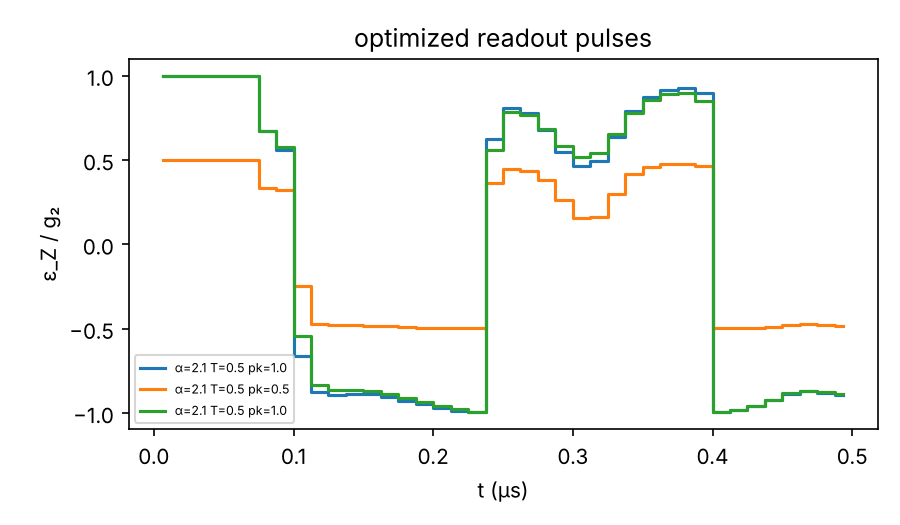
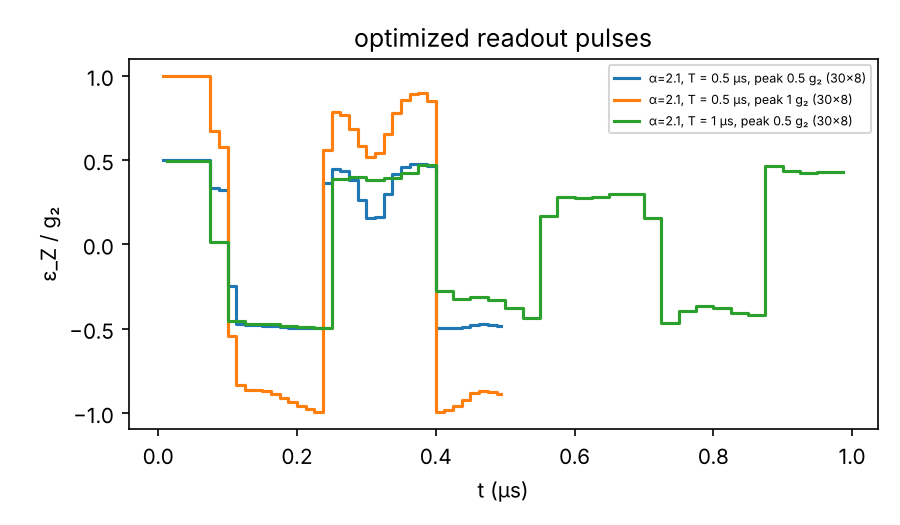
Fold in batch 3s: optimizer across 9 converged settings (1.26-1.71x signal per flip), logs to results/logs/, cleaner optimized-pulse figure
Claude-Session: https://claude.ai/code/session_017wfmfWoBFh3pbnZBP8Jes5

diff --git a/research/s2/summarize.py b/research/s2/summarize.py
@@ -255,9 +255,9 @@ def optimizer(md):
         md.append(f"| {d['alpha']} | {d['na']}×{d['nb']} | {d['T']} | {d['peak']} | {d['init']} | {d['mu_scale']} | {b['snr']/q['snr']:.2f} | {b['p_flip']/q['p_flip']:.2f} | {b['ratio_vs_square']:.2f} |")
     fig, ax = plt.subplots(figsize=(6, 3.5))
     for d in os_:
-        if d["alpha"] == 2.1 or len(os_) < 4:
+        if (d["alpha"] == 2.1 and d["nb"] >= 8) or len(os_) < 4:   # converged runs only
             t = np.linspace(0, d["T"], d["bins"], endpoint=False) + d["T"] / d["bins"] / 2
-            ax.step(t, d["best"]["pulse_over_g2"], where="mid", label=f"α={d['alpha']} T={d['T']} pk={d['peak']}")
+            ax.step(t, d["best"]["pulse_over_g2"], where="mid", label=f"α={d['alpha']}, T = {d['T']:g} µs, peak {d['peak']:g} g₂ ({d['na']}×{d['nb']})")
     ax.set_xlabel("t (µs)"); ax.set_ylabel("ε_Z / g₂"); ax.legend(fontsize=6); ax.set_title("optimized readout pulses")
     fig.tight_layout(); fig.savefig(F / "optimized_pulses.png", dpi=150); plt.close(fig)
     md.append("")

diff --git a/README.md b/README.md
@@ -30,7 +30,7 @@ Our one idea: every decay rate is an **eigenvalue** of the Lindblad equation, so
 | **2.1** Bit-flip rate Γ_X | The prompt's method (fit the decay of Re⟨a⟩) at α ≤ 1.4, and the slowest eigenvalue of the "odd" half of the Lindblad matrix up to α = 2.5 | The two methods agree to 2e-8. Γ_X falls from 2.3e-3 to 3.1e-8 per µs (α = 1.0 to 2.4; 2.6 s between flips at α = 2.1). Fitted **γ = 2.30**, but it is not one number: it drifts from 3.1 to 1.9, reaching the deck's γ ≲ 2 only at large α, because **two flip mechanisms** take turns. The naive Golden Rule estimate gives γ = 4 and describes only the first; a κ_a sweep proves the hand-over (slope 1.06 → 2.05). |
 | **2.2** Phase-flip rate Γ_Z | Parity decay from the even cat (the prompt's method) and the slowest nonzero eigenvalue of the "even" half | Slope 0.991 × 2κ_a; at α = 2.1, Γ_Z = 0.5146 per µs. The two methods agree to 5 digits. |
 | **2.3** Readout through the buffer | Drive the memory, watch the buffer field | The signal matches our linear formula to 1% and **rings at 3.2 MHz** (the same oscillator as the Task 1.1 overshoot); it settles in 1 µs. |
-| **2.4** Better readout | Expanded the circuit Hamiltonian term by term and simulated it without the rotating-wave shortcut; measured flip cost vs signal; compared pulse shapes; optimized the pulse with gradients through the simulator | (a) The pump amplitude must be 0.037, not 0.035, and the pump must be **retuned by −23 MHz**: at the nominal frequency, Stark shifts stop the photon-pair conversion in our circuit simulation. (b) Signal and extra bit flips both grow as ε_Z², so turning up the drive buys nothing per unit of information; only the pulse's *shape* helps. (c, d) A drive at the 3.2 MHz ring frequency cuts the readout error 1.7× (1.12% → 0.65% in 2 µs); a gradient-optimized pulse gives **40% more signal with 10% fewer bit flips** than a square pulse. |
+| **2.4** Better readout | Expanded the circuit Hamiltonian term by term and simulated it without the rotating-wave shortcut; measured flip cost vs signal; compared pulse shapes; optimized the pulse with gradients through the simulator | (a) The pump amplitude must be 0.037, not 0.035, and the pump must be **retuned by −23 MHz**: at the nominal frequency, Stark shifts stop the photon-pair conversion in our circuit simulation. (b) Signal and extra bit flips both grow as ε_Z², so turning up the drive buys nothing per unit of information; only the pulse's *shape* helps. (c, d) A drive at the 3.2 MHz ring frequency cuts the readout error 1.7× (1.12% → 0.65% in 2 µs); a gradient-optimized pulse gives **40% more signal with 10% fewer bit flips** than a square pulse at α = 2.1, and 1.3–1.7× more signal per bit flip in all 9 converged cases we ran (α = 1.4–2.1, two pulse lengths, two amplitudes). |
 
 ![Bit-flip rate](figures/s2/gamma_x.png)
 *Task 2.1. Bit-flip rate against cat size (α² is the photon number). Blue: our full model, computed as an eigenvalue. Crosses: brute-force time simulation where it is still feasible; they land on the blue curve. The two straight lines are the two escape routes over the hill: green (γ = 4, the naive Golden Rule answer) wins for small cats, red (γ = 2) for large ones, which is why the blue curve bends. The simplified one-mode model (orange) underestimates the flips by about 3× at α = 2.1.*

diff --git a/docs/SECTION2.md b/docs/SECTION2.md
@@ -141,7 +141,22 @@ square pulse:
 The same ordering holds at α = 1.4 and 1.8 (resonant: 0.64–0.74 flips per SNR) and for T = 0.25–1 µs. At peak 0.5 g₂ the optimizer does not beat the resonant pulse on flips per unit SNR; it spends the extra
 flips on more signal. At peak 1.0 g₂ it reached 1.40× the square pulse's SNR with 0.90× its
 flips (30×8; 26×6 gave 1.42× and 0.89×), and at α = 1.4, T = 1 µs, peak 0.5 g₂ it gave 1.13× the SNR with 0.71× the
-flips (22×8). A square pulse is never the best choice.
+flips (22×8). A square pulse is never the best choice. The optimizer was run at every converged setting we could afford (`results/s2/opt_*.json`):
+
+| α | T (µs) | peak (g₂) | Na×Nb | Adam steps | SNR vs square | flips vs square | SNR per flip vs square |
+|---|---|---|---|---|---|---|---|
+| 1.4 | 0.5 | 0.5 | 22×8 | 25 | 0.89 | 0.58 | 1.55 |
+| 1.4 | 0.5 | 1 | 22×8 | 25 | 0.94 | 0.57 | 1.66 |
+| 1.4 | 1 | 0.5 | 22×8 | 40 | 1.13 | 0.71 | 1.59 |
+| 1.8 | 0.5 | 0.5 | 26×8 | 20 | 1.27 | 0.93 | 1.36 |
+| 1.8 | 0.5 | 1 | 26×8 | 20 | 1.13 | 0.66 | 1.71 |
+| 1.8 | 1 | 0.5 | 26×8 | 20 | 1.88 | 1.42 | 1.32 |
+| 2.1 | 0.5 | 0.5 | 30×8 | 15 | 1.51 | 1.20 | 1.26 |
+| 2.1 | 0.5 | 1 | 30×8 | 15 | 1.40 | 0.90 | 1.56 |
+| 2.1 | 1 | 0.5 | 30×8 | 10 | 1.71 | 1.31 | 1.30 |
+
+In all 9 cases the optimized pulse carries **1.26–1.71× more signal per bit flip** than the square pulse. It chooses where on the
+frontier to sit: at low peak and long windows it buys signal (up to 1.88×), at high peak it cuts flips (down to 0.57×).
 
 **From SNR to readout error** (`research/s2/fidelity.py`). Homodyne with a matched filter separates the two
 outcome distributions by 2√SNR standard deviations, so the error is ½erfc(√(SNR/2)) plus the probability that the
@@ -197,4 +212,4 @@ python -m research.s2.circuit_sim --na 12 --nb 5 --T 0.15 --dp -23              
 ```
 
 The large sweeps ran on Vultr (`cloud/s2_batch1b.txt`, `s2_batch2.txt`, `s2_batch3s.txt` with
-`cloud/vultr_batch.py`; costs in `docs/tools-log.md`). Each batch log is in `results/batch-vm*.log`.
+`cloud/vultr_batch.py`; costs in `docs/tools-log.md`). The last batch's VM logs are in `results/logs/`; the launcher writes each new batch to `results/batch-vm*.log`.

diff --git a/results/s2/SUMMARY.md b/results/s2/SUMMARY.md
@@ -807,10 +807,16 @@ Values < 1 beat the square pulse. Also SNR gain at the same peak amplitude and w
 |---|---|---|---|---|---|---|---|---|
 | 1.4 | 14×4 | 0.3 | 0.5 | bang | 1.0 | 0.67 | 0.49 | 1.35 |
 | 1.4 | 20×6 | 0.5 | 0.5 | bang | 1.0 | 0.89 | 0.58 | 1.53 |
+| 1.4 | 22×8 | 0.5 | 0.5 | bang | 1.0 | 0.89 | 0.58 | 1.55 |
+| 1.4 | 22×8 | 0.5 | 1.0 | bang | 1.0 | 0.94 | 0.57 | 1.66 |
 | 1.4 | 22×8 | 1.0 | 0.5 | bang | 1.0 | 1.13 | 0.71 | 1.59 |
+| 1.8 | 26×8 | 0.5 | 0.5 | bang | 1.0 | 1.27 | 0.93 | 1.36 |
+| 1.8 | 26×8 | 0.5 | 1.0 | bang | 1.0 | 1.13 | 0.66 | 1.71 |
+| 1.8 | 26×8 | 1.0 | 0.5 | bang | 1.0 | 1.88 | 1.42 | 1.32 |
 | 2.1 | 26×6 | 0.5 | 1.0 | bang | 1.0 | 1.42 | 0.89 | 1.59 |
 | 2.1 | 30×8 | 0.5 | 0.5 | bang | 1.0 | 1.51 | 1.20 | 1.26 |
 | 2.1 | 30×8 | 0.5 | 1.0 | bang | 1.0 | 1.40 | 0.90 | 1.56 |
+| 2.1 | 30×8 | 1.0 | 0.5 | bang | 1.0 | 1.71 | 1.31 | 1.30 |
 
 ## 2.4a circuit Hamiltonian vs RWA (150 ns, 5 ns averaged, from |α=1⟩|0⟩)
 

diff --git a/research/LOG.md b/research/LOG.md
@@ -4,7 +4,7 @@ Every research run is listed here with its command, where it ran, and what it fo
 
 ## Cloud batch, Oct 24 2026, 6:42 to 7:27 PM EDT
 
-`cloud/vultr_batch.py` ran `cloud/research_jobs.txt` with 41 jobs on 3 VMs (voc-c-16c-32gb-300s-amd). Wall time was 45 min and the cost about $0.99. All jobs exited 0. The VM logs are in `results/batch-vm{0,1,2}.log`. Summaries come from `python -m research.merge_cloud`.
+`cloud/vultr_batch.py` ran `cloud/research_jobs.txt` with 41 jobs on 3 VMs (voc-c-16c-32gb-300s-amd). Wall time was 45 min and the cost about $0.99. All jobs exited 0. The VM logs were in `results/batch-vm{0,1,2}.log` (overwritten by later batches; `results/logs/` keeps the last Section 2 batch). Summaries come from `python -m research.merge_cloud`.
 
 | Study | Command (module) | Truncation (convergence pair) | Result |
 |---|---|---|---|

diff --git a/research/README.md b/research/README.md
@@ -45,7 +45,7 @@ python -m research.merge_cloud      # after the results are copied back
 ```
 
 41 jobs, ~4.6 h of compute in total. The four GRAPE jobs (~45 min each) are the longest; every
-other job is under ~8 min. Estimates are scaled from the Task 1.2 grid timings (`results/grid.log`).
+other job is under ~8 min. Estimates are scaled from the Task 1.2 grid timings (`results/logs/grid.log`).
 
 ## Smoke tests
 
